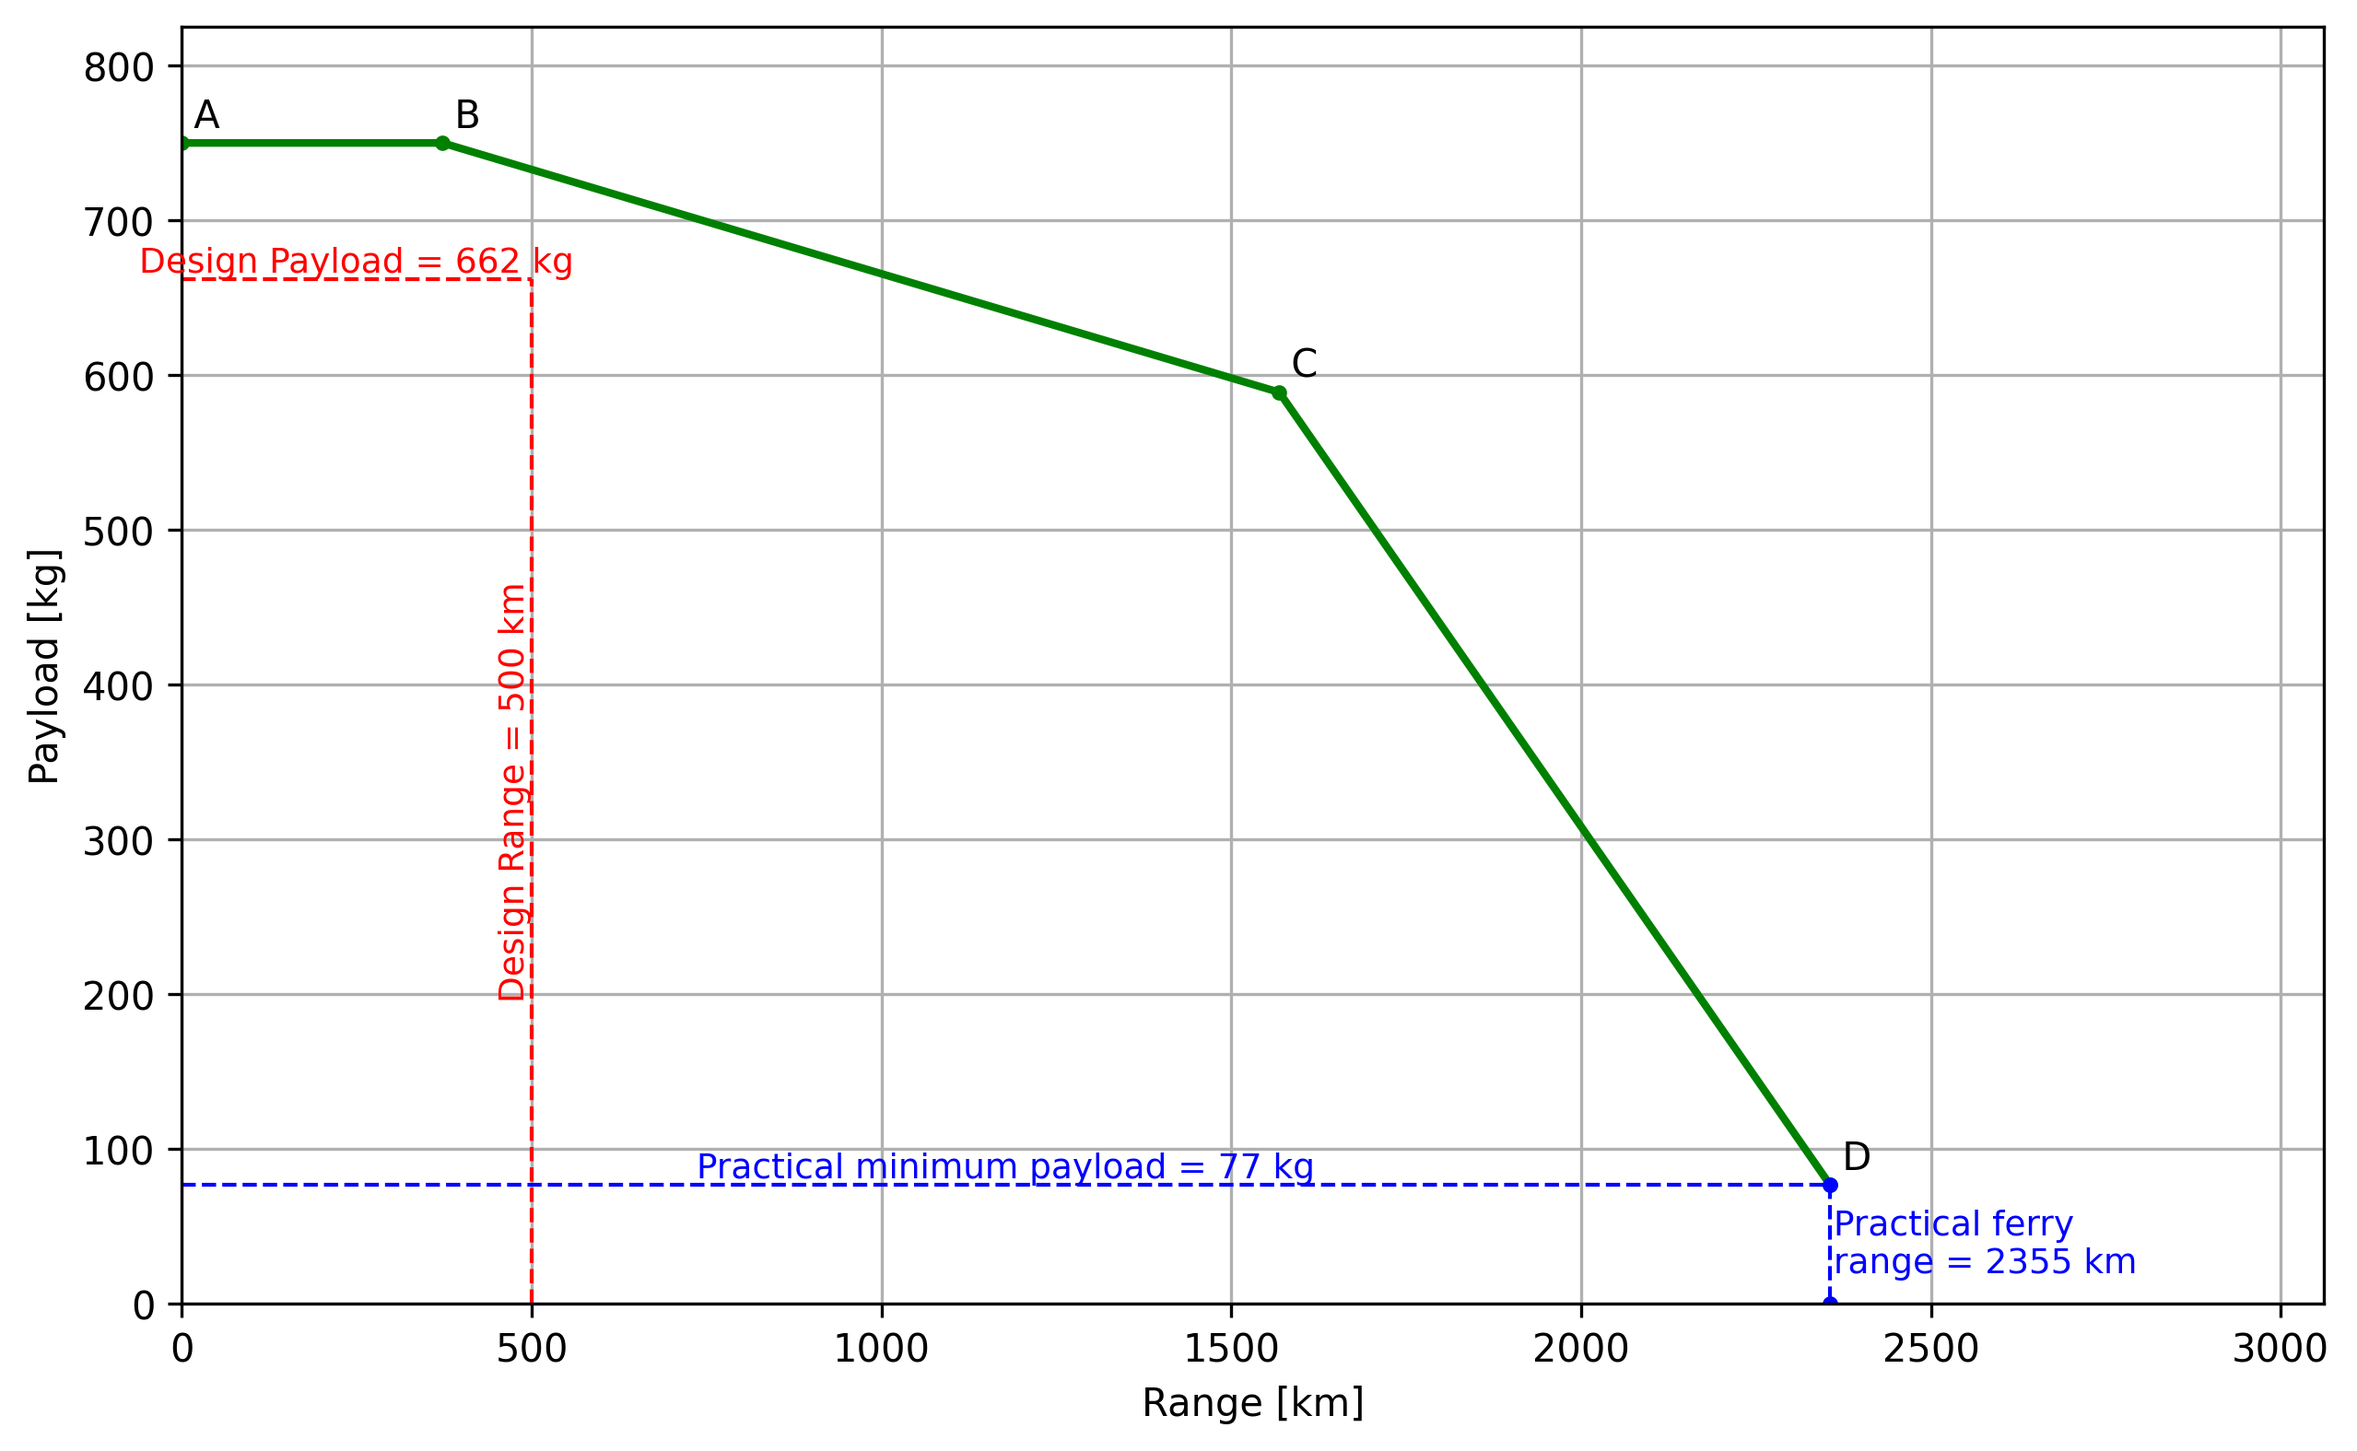
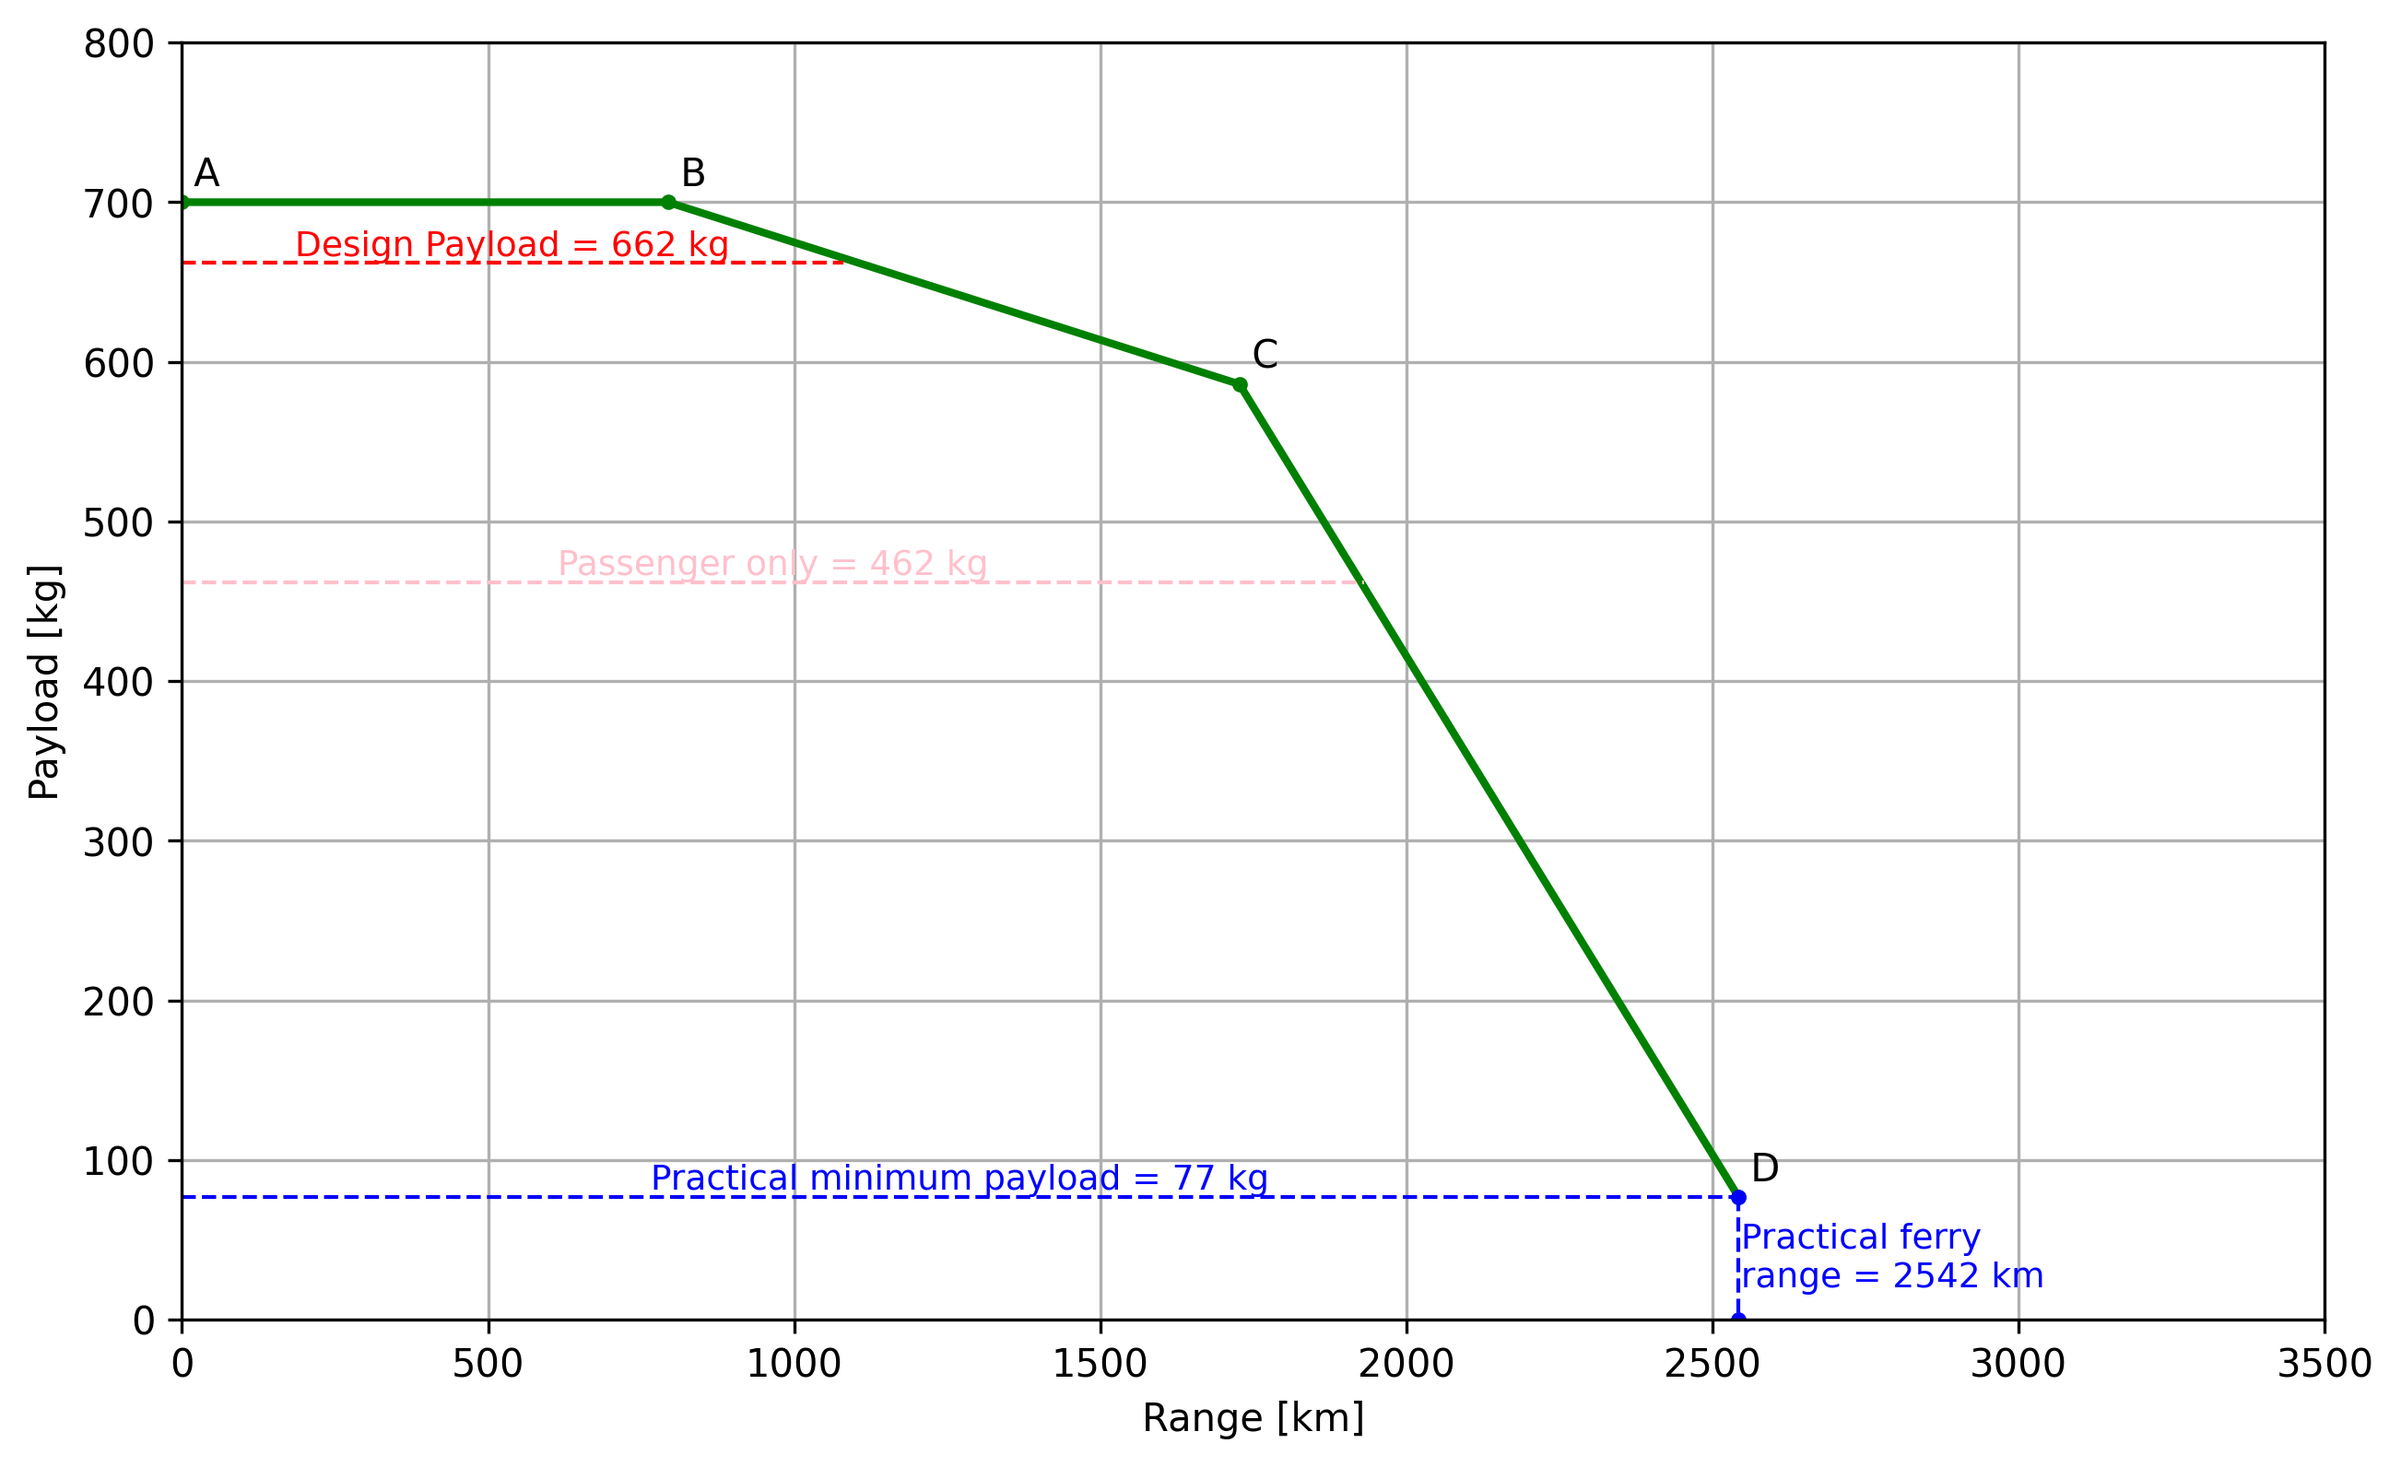
payload range update

diff --git a/performance_diagrams/payload_range_final_design.py b/performance_diagrams/payload_range_final_design.py
@@ -11,31 +11,27 @@ from pathlib import Path
 from lookups.consts import *
 
 
-def fuel_required_condition(m_mto, R_eq, eta_eng, eta_p, e_f, L_D_max):
-
-    m_f_required = m_mto * (1 - math.exp((-R_eq) / (eta_eng * eta_p * e_f * L_D_max / g)))
-    return m_f_required
-
-
 def calculate_range(eta_eng, eta_p, L_D_max, e_f, m_e, m_pl, m_f, R_aux):
     R = eta_eng * eta_p * L_D_max * e_f / g * math.log((m_e + m_pl + m_f) / (m_e + m_pl)) - R_aux
     return R
 
 
-def calculate_payload_range_parameters(m_mto, m_e, m_f_des, m_f_max, m_pl_max, m_pilot, A, e, C_d0, L_D_cr,
-                                       eta_p, eta_eng, e_f, R_des, h_cr, V_cr):
+def calculate_payload_range_parameters(m_mto, m_e, m_f_des, m_f_max, m_pl_max, m_pilot, A, e, C_d0,
+                                       eta_p, eta_eng, e_f, R_des, V_cr):
 
     L_D_max = 0.5 * math.sqrt((math.pi * A * e) / (C_d0))
-    print(f"Max L/D: {L_D_max}")
-    R_lost = 1 / 0.7 * L_D_cr * (h_cr + V_cr ** 2 / (2 * g))
     t_e = 45 * 60
     R_eq_res = t_e * V_cr
 
-    R_eq = R_des + R_lost + R_eq_res
-    print(f"Equivalent range: {R_eq}")
+    R_eq = R_des + R_eq_res
     R_aux = R_eq - R_des
 
-    m_f_required = fuel_required_condition(m_mto, R_eq, eta_eng, eta_p, e_f, L_D_max)
+    m_f_required_cruise_reserve = m_mto * (1 - math.exp((-R_eq) / (eta_eng * eta_p * e_f * L_D_max / g)))
+    m_f_required_cruise = m_mto * (1 - math.exp((-R_des) / (eta_eng * eta_p * e_f * L_D_max / g)))
+    m_f_required_reserve = m_mto * (1 - math.exp((-R_eq_res) / (eta_eng * eta_p * e_f * L_D_max / g)))
+    m_f_required = m_mto * (1 - ((1 - (m_f_required_cruise_reserve) / m_mto) * 0.992 * 0.996 * 0.996 * 0.99 * 0.992 * 0.992))
+    m_f_required_told = m_f_required - m_f_required_cruise_reserve
+    print(m_f_required_cruise, m_f_required_reserve, m_f_required_cruise_reserve, m_f_required_told, m_f_required)
 
     if m_f_des > m_f_required:
         print(f"Design fuel mass ({m_f_des} kg) is sufficient to meet fuel requirements ({m_f_required:.2f} kg) for "
@@ -46,15 +42,24 @@ def calculate_payload_range_parameters(m_mto, m_e, m_f_des, m_f_max, m_pl_max, m
 
     design_point_1 = (0, m_pl_max)
 
-    m_f_pl_max = m_mto - m_e - m_pl_max
+    m_f_pl_max = m_mto - m_e - m_pl_max - m_f_required_told
+    print(m_f_pl_max)
     R_pl_max = calculate_range(eta_eng, eta_p, L_D_max, e_f, m_e, m_pl_max, m_f_pl_max, R_aux)
     design_point_2 = (R_pl_max, m_pl_max)
 
     m_pl_f_max = m_mto - m_e - m_f_max
-    R_f_max = calculate_range(eta_eng, eta_p, L_D_max, e_f, m_e, m_pl_f_max, m_f_max, R_aux)
+    m_f_required_cruise_reserve_pax = m_mto * (1 - math.exp((-(2150000+R_eq_res)) / (eta_eng * eta_p * e_f * L_D_max / g)))
+    m_f_required_cruise_pax = m_mto * (1 - math.exp((-2150000) / (eta_eng * eta_p * e_f * L_D_max / g)))
+    m_f_required_reserve_pax = m_mto * (1 - math.exp((-R_eq_res) / (eta_eng * eta_p * e_f * L_D_max / g)))
+    m_f_required_pax = m_mto * (
+                1 - ((1 - (m_f_required_cruise_reserve_pax) / m_mto) * 0.992 * 0.996 * 0.996 * 0.99 * 0.992 * 0.992))
+    m_f_required_told_pax = m_f_required_pax - m_f_required_cruise_reserve_pax
+    print(m_f_required_cruise_pax, m_f_required_reserve_pax, m_f_required_cruise_reserve_pax, m_f_required_told_pax, m_f_required_pax)
+
+    R_f_max = calculate_range(eta_eng, eta_p, L_D_max, e_f, m_e, m_pl_f_max, m_f_max - m_f_required_told, R_aux)
     design_point_3 = (R_f_max, m_pl_f_max)
 
-    R_ferry = calculate_range(eta_eng, eta_p, L_D_max, e_f, m_e, m_pilot, m_f_max, R_aux)
+    R_ferry = calculate_range(eta_eng, eta_p, L_D_max, e_f, m_e, m_pilot, m_f_max - m_f_required_told, R_aux)
     design_point_4 = (R_ferry, m_pilot)
 
     design_point_5 = (R_ferry, 0)
@@ -65,8 +70,6 @@ def calculate_payload_range_parameters(m_mto, m_e, m_f_des, m_f_max, m_pl_max, m
 def plot_payload_range(payload_range_points, m_pl_des, R_des,
                        save_path=Path(__file__).parent / "performance_figures/payload_range_diagram.png",
                        figsize=(10, 6)):
-
-    plt.figure(figsize=figsize)
 
     ranges = [point[0] / 1000 for point in payload_range_points]
     payloads = [point[1] for point in payload_range_points]
@@ -84,6 +87,10 @@ def plot_payload_range(payload_range_points, m_pl_des, R_des,
     plt.hlines(y=m_pl_des, xmin=0, xmax=R_des/1000, colors='red',linestyle='--', linewidth=1)
     plt.text(R_des/(2*1000), m_pl_des,f'Design Payload = {m_pl_des:.0f} kg', color='red',fontsize=9,
              horizontalalignment='center', verticalalignment='bottom')
+
+    plt.hlines(y=m_pl_des-200, xmin=0, xmax=2150, colors='pink', linestyle='--', linewidth=1)
+    plt.text(2200 / 2, m_pl_des-200, f'Only Passenger Payload = {m_pl_des-200:.0f} kg', color='pink', fontsize=9,
+             horizontalalignment='center', verticalalignment='bottom')
     #
     plt.vlines(x=R_des/1000, ymin=0, ymax=m_pl_des, colors='red', linestyle='--', linewidth=1)
     plt.text(R_des/1000, m_pl_des/2, f'Design Range = {R_des/1000:.0f} km', rotation=90, color='red', fontsize=9,
@@ -93,50 +100,64 @@ def plot_payload_range(payload_range_points, m_pl_des, R_des,
     plt.text(ranges[3]/2, m_pilot,f'Practical minimum payload = {m_pilot:.0f} kg', color='blue',fontsize=9,
              horizontalalignment='center', verticalalignment='bottom')
 
-    plt.xlim(0, max(ranges) * 1.3)
-    plt.ylim(0, max(payloads) * 1.1)
-
-    plt.xlabel("Range [km]")
-    plt.ylabel("Payload [kg]")
-    # plt.title("Payload-Range Diagram")
-
-    plt.grid(True)
-    # plt.legend(fontsize=8)
-
-    os.makedirs(os.path.dirname(save_path), exist_ok=True)
-    plt.savefig(save_path, dpi=300, bbox_inches='tight')
-    print(f"Figure saved to: {save_path}")
-    plt.show()
-    plt.close()
 
 if __name__ == '__main__':
     # WEIGHTS
-    m_mto = 1821.38
-    m_e = 982.5
+    m_mto = 1871
+    m_e = 1035
     m_pl_des = 662
-    m_pl_max = 750
+    m_pl_max = 700
     m_pilot = 77
-    m_f_des = 167.8
-    m_f_max = 250  
+    m_f_des = m_mto - m_e - m_pl_des
+    m_f_max = 250
 
     # AERODYNAMICS
     A = 9
     e = 0.783
-    C_d0 = 0.02727
-    L_D_cr = 14.23
+    C_d0 = 0.02591
 
     # PROPULSION
-    eta_p = 0.76
+    eta_p = 0.83
     eta_eng = 0.25
     e_f = 44400000
 
     # DESIGN CHOICES
     R_des = 500 * 1000
-    h_cr = 8500 * FT_TO_M
     V_cr = 132 * KTS_TO_MS
 
     payload_range_points = calculate_payload_range_parameters(m_mto, m_e, m_f_des, m_f_max, m_pl_max, m_pilot,
-                                                              A, e, C_d0, L_D_cr, eta_p, eta_eng, e_f, R_des, h_cr, V_cr)
-    print(payload_range_points)
+                                                              A, e, C_d0, eta_p, eta_eng, e_f, R_des, V_cr)
 
+    print(payload_range_points)
+    plt.figure(figsize=(10,6))
     plot_payload_range(payload_range_points, m_pl_des, R_des)
+
+    # m_mto = 1871 - 2 * 77
+    # m_e = 1034
+    # m_pl_des = 662 - 2 * 77
+    # m_pl_max = 700 - 2 * 77
+    # m_pilot = 77
+    # m_f_des = m_mto - m_e - m_pl_des
+    # m_f_max = 250
+    #
+    # payload_range_points = calculate_payload_range_parameters(m_mto, m_e, m_f_des, m_f_max, m_pl_max, m_pilot,
+    #                                                           A, e, C_d0, eta_p, eta_eng, e_f, R_des, V_cr)
+    #
+    # print(payload_range_points)
+    # plot_payload_range(payload_range_points, m_pl_des, R_des)
+
+    plt.xlim(0, 3000)
+    plt.ylim(0, 800)
+
+    plt.xlabel("Range [km]")
+    plt.ylabel("Payload [kg]")
+    plt.title("Payload-Range Diagram")
+
+    plt.grid(True)
+    # plt.legend(fontsize=8)
+
+    save_path = Path(__file__).parent / "performance_figures/payload_range_diagram.png"
+    os.makedirs(os.path.dirname(save_path), exist_ok=True)
+    plt.savefig(save_path, dpi=300, bbox_inches='tight')
+    print(f"Figure saved to: {save_path}")
+    plt.close()

diff --git a/performance_diagrams/prff.py b/performance_diagrams/prff.py
@@ -1,0 +1,148 @@
+import sys
+import os
+
+# Fix path FIRST, before any local imports
+sys.path.insert(0, os.path.join(os.path.dirname(__file__), '..'))
+import math
+import numpy as np
+import matplotlib.pyplot as plt
+# import os
+from pathlib import Path
+from lookups.consts import *
+
+
+def fuel_required_condition(m_mto, R_eq, eta_eng, eta_p, e_f, L_D_max):
+
+    m_f_required = m_mto * (1 - math.exp((-R_eq) / (eta_eng * eta_p * e_f * L_D_max / g)))
+    return m_f_required
+
+
+def calculate_range(eta_eng, eta_p, L_D_max, e_f, m_e, m_pl, m_f, R_aux):
+    R = eta_eng * eta_p * L_D_max * e_f / g * math.log((m_e + m_pl + m_f) / (m_e + m_pl)) - R_aux
+    return R
+
+
+def calculate_payload_range_parameters(m_mto, m_e, m_f_des, m_f_max, m_pl_max, m_pilot, A, e, C_d0, L_D_cr,
+                                       eta_p, eta_eng, e_f, R_des, h_cr, V_cr):
+
+    L_D_max = 0.5 * math.sqrt((math.pi * A * e) / (C_d0))
+    print(f"Max L/D: {L_D_max}")
+    R_lost = 1 / 0.7 * L_D_cr * (h_cr + V_cr ** 2 / (2 * g))
+    print(R_lost)
+    t_e = 45 * 60
+    R_eq_res = t_e * V_cr
+
+    R_eq = R_des + R_lost + R_eq_res
+    print(f"Equivalent range: {R_eq}")
+    R_aux = R_eq - R_des
+
+    m_f_required = fuel_required_condition(m_mto, R_eq, eta_eng, eta_p, e_f, L_D_max)
+
+    if m_f_des > m_f_required:
+        print(f"Design fuel mass ({m_f_des} kg) is sufficient to meet fuel requirements ({m_f_required:.2f} kg) for "
+              f"design range ({R_des/1000} km)")
+    else:
+        print(f"Design fuel mass ({m_f_des} kg) is INSUFFICIENT to meet fuel requirements ({m_f_required:.2f} kg) "
+              f"for design range ({R_des/1000} km)")
+
+    design_point_1 = (0, m_pl_max)
+
+    m_f_pl_max = m_mto - m_e - m_pl_max
+    print(m_f_pl_max)
+    R_pl_max = calculate_range(eta_eng, eta_p, L_D_max, e_f, m_e, m_pl_max, m_f_pl_max, R_aux)
+    design_point_2 = (R_pl_max, m_pl_max)
+
+    m_pl_f_max = m_mto - m_e - m_f_max
+    print(m_pl_f_max)
+    R_f_max = calculate_range(eta_eng, eta_p, L_D_max, e_f, m_e, m_pl_f_max, m_f_max, R_aux)
+    design_point_3 = (R_f_max, m_pl_f_max)
+
+    R_ferry = calculate_range(eta_eng, eta_p, L_D_max, e_f, m_e, m_pilot, m_f_max, R_aux)
+    design_point_4 = (R_ferry, m_pilot)
+
+    design_point_5 = (R_ferry, 0)
+
+    return [design_point_1, design_point_2, design_point_3, design_point_4, design_point_5]
+
+
+def plot_payload_range(payload_range_points, m_pl_des, R_des):
+    ranges = [point[0] / 1000 for point in payload_range_points]
+    payloads = [point[1] for point in payload_range_points]
+
+    plt.plot(ranges[:4], payloads[:4], marker='.', linestyle='-',linewidth=2, color='green')
+    plt.plot(ranges[3:5], payloads[3:5], marker='.', linestyle='--', linewidth=1, color='blue')
+    plt.text(ranges[3] + 5, payloads[3] / 2, f'Practical ferry\nrange = {ranges[3]:.0f} km', color='blue',
+             fontsize=9, horizontalalignment='left', verticalalignment='center')
+
+    point_labels = ['A', 'B', 'C', 'D']
+
+    for i, point_label in enumerate(point_labels):
+        plt.text(ranges[i], payloads[i] + 10,f' {point_label}',fontsize=10)
+
+    plt.hlines(y=m_pl_des, xmin=0, xmax=1080, colors='red',linestyle='--', linewidth=1)
+    plt.text(1080/2, m_pl_des,f'Design Payload = {m_pl_des:.0f} kg', color='red',fontsize=9,
+             horizontalalignment='center', verticalalignment='bottom')
+
+    plt.hlines(y=m_pl_des-200, xmin=0, xmax=1930, colors='pink', linestyle='--', linewidth=1)
+    plt.text(1930 / 2, m_pl_des-200, f'Passenger only = {m_pl_des-200:.0f} kg', color='pink', fontsize=9,
+             horizontalalignment='center', verticalalignment='bottom')
+    #
+    # plt.vlines(x=R_des/1000, ymin=0, ymax=m_pl_des, colors='red', linestyle='--', linewidth=1)
+    # plt.text(R_des/1000, m_pl_des/2, f'Design Range = {R_des/1000:.0f} km', rotation=90, color='red', fontsize=9,
+    #          horizontalalignment='right', verticalalignment='center')
+
+    plt.hlines(y=payloads[3], xmin=0, xmax=ranges[3], colors='blue', linestyle='--', linewidth=1)
+    plt.text(ranges[3]/2, m_pilot,f'Practical minimum payload = {m_pilot:.0f} kg', color='blue',fontsize=9,
+             horizontalalignment='center', verticalalignment='bottom')
+
+
+
+if __name__ == '__main__':
+    # WEIGHTS
+    m_mto = 1871
+    m_e = 1035
+    m_pl_des = 662
+    m_pl_max = 700
+    m_pilot = 77
+    m_f_des = m_mto - m_e - m_pl_des
+    m_f_max = 250
+
+    # AERODYNAMICS
+    A = 9
+    e = 0.783
+    C_d0 = 0.02591
+    L_D_cr = 14.62
+
+    # PROPULSION
+    eta_p = 0.83
+    eta_eng = 0.25
+    e_f = 44400000
+
+    # DESIGN CHOICES
+    R_des = 500 * 1000
+    h_cr = 8500 * FT_TO_M
+    V_cr = 132 * KTS_TO_MS
+
+    plt.figure(figsize=(10, 6))
+    save_path = Path(__file__).parent / "performance_figures/payload_range_diagram.png"
+
+    payload_range_points = calculate_payload_range_parameters(m_mto, m_e, m_f_des, m_f_max, m_pl_max, m_pilot,
+                                                              A, e, C_d0, L_D_cr, eta_p, eta_eng, e_f, R_des, h_cr, V_cr)
+    print(payload_range_points)
+    plot_payload_range(payload_range_points, m_pl_des, R_des)
+
+    plt.xlim(0, 3500)
+    plt.ylim(0, 800)
+
+    plt.xlabel("Range [km]")
+    plt.ylabel("Payload [kg]")
+    # plt.title("Payload-Range Diagram")
+
+    plt.grid(True)
+    # plt.legend(fontsize=8)
+
+    os.makedirs(os.path.dirname(save_path), exist_ok=True)
+    plt.savefig(save_path, dpi=300, bbox_inches='tight')
+    print(f"Figure saved to: {save_path}")
+    # plt.show()
+    plt.close()
